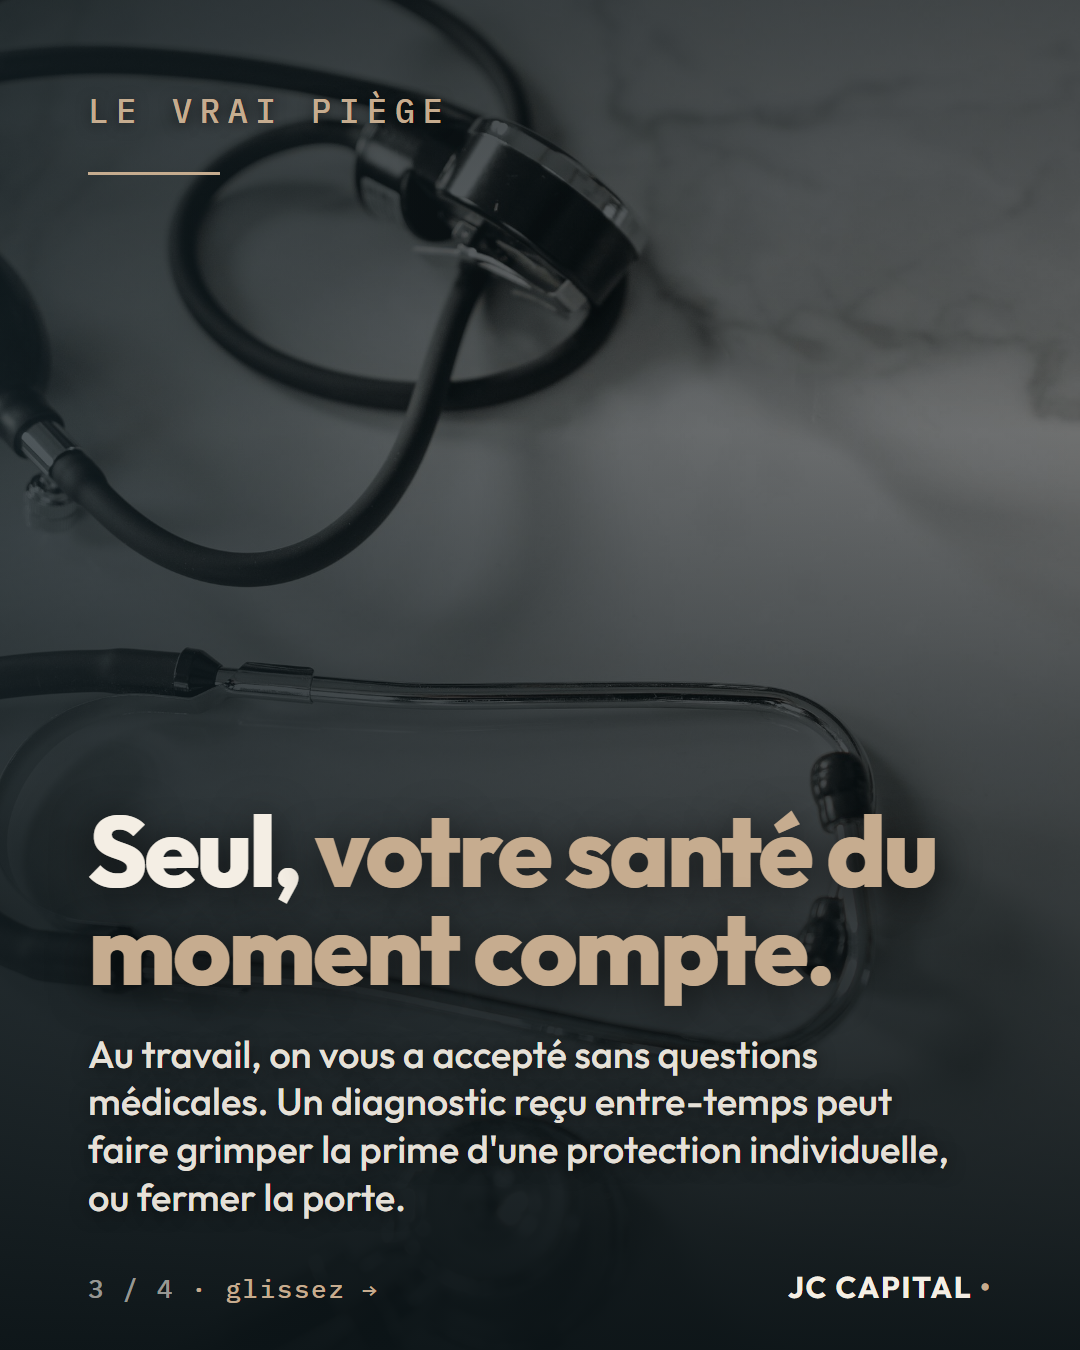
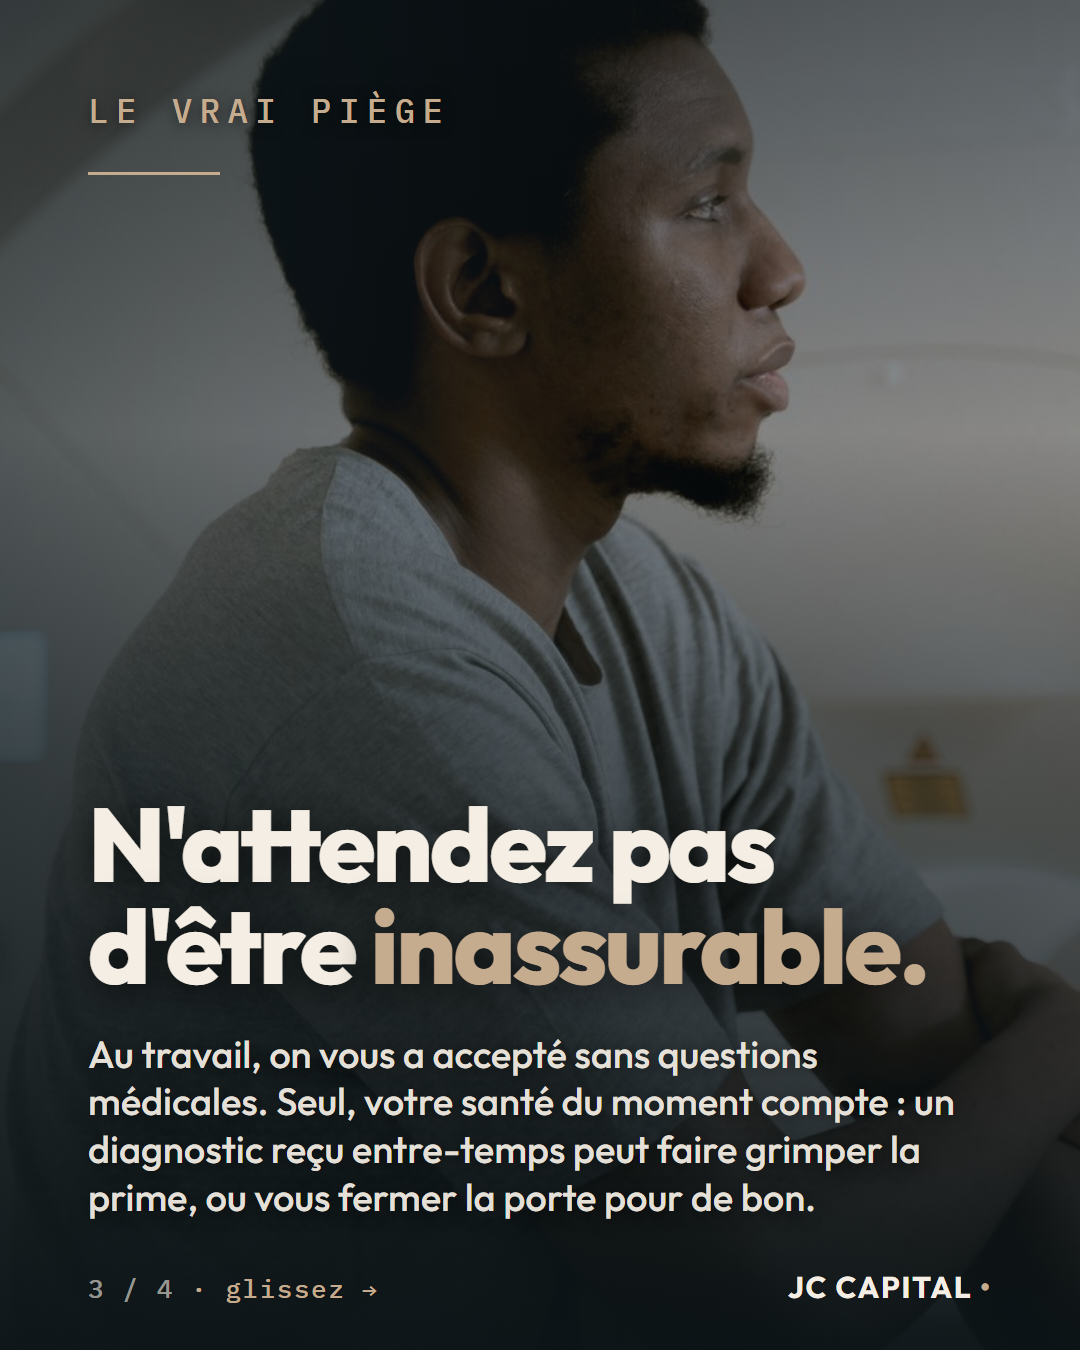
Carrousel v3 : photos cohérentes (famille, hôpital), diapositive 3 « N'attendez pas d'être inassurable »

diff --git a/marketing/carrousels/2026-11-11-mythe-employeur-v3.js b/marketing/carrousels/2026-11-11-mythe-employeur-v3.js
@@ -55,15 +55,15 @@ const slides = [
     eyebrow: 'Mythe · Vérité', small: '« Mon assurance collective me suffit. »',
     h1: 'Elle part <em>quand vous partez.</em>', h1Size: 112,
     sub: 'Assurance vie, assurance invalidité : vos avantages sociaux appartiennent au contrat de votre employeur, pas à vous.' },
-  { photo: 28666795, pos: '50% 85%', bright: .85, veilTop: .5, sat: .9,
-    eyebrow: 'Et même tant que vous y êtes',
+  { photo: 17133084, pos: '50% 50%', bright: .8, veilTop: .5, sat: .9,
+    eyebrow: 'Regardez les montants',
     h1: 'Souvent, <em>elle ne suffit pas.</em>',
     items: ['Assurance vie : un ou deux ans de salaire, rarement plus', 'Invalidité : une partie du salaire, plafonnée', 'Maladies graves : souvent absente'],
     sub: 'Hypothèque, famille, entreprise : le montant a été choisi par votre employeur, pas calculé sur vos besoins.' },
-  { photo: 6753424, pos: '50% 50%', bright: .6, veilTop: .55, sat: .8,
+  { photo: 7088832, pos: '50% 30%', bright: .85, veilTop: .55, sat: .8,
     eyebrow: 'Le vrai piège',
-    h1: 'Seul, <em>votre santé du moment compte.</em>', h1Size: 100,
-    sub: 'Au travail, on vous a accepté sans questions médicales. Un diagnostic reçu entre-temps peut faire grimper la prime d\'une protection individuelle, ou fermer la porte.' },
+    h1: 'N\'attendez pas d\'être <em>inassurable.</em>', h1Size: 104,
+    sub: 'Au travail, on vous a accepté sans questions médicales. Seul, votre santé du moment compte : un diagnostic reçu entre-temps peut faire grimper la prime, ou vous fermer la porte pour de bon.' },
   { photo: 33702577, pos: '50% 45%', bright: .95, veilTop: .45,
     eyebrow: 'Et vous ?',
     h1: 'Que couvre vraiment <em>votre régime ?</em>',
